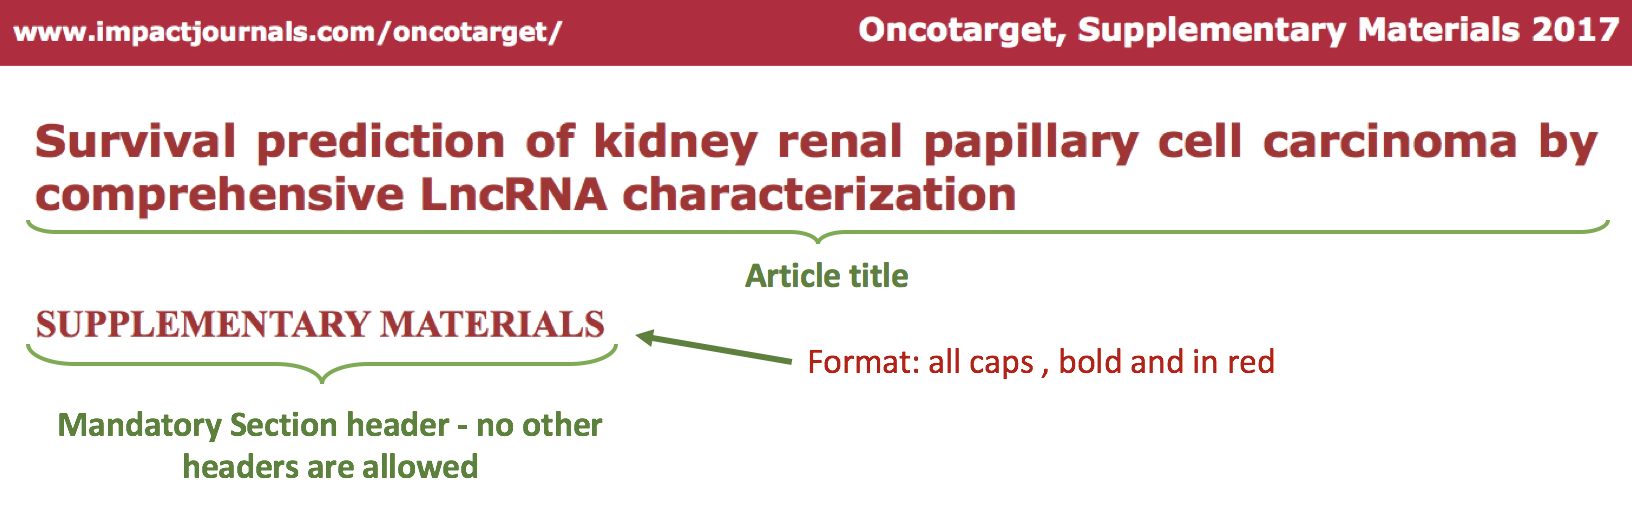
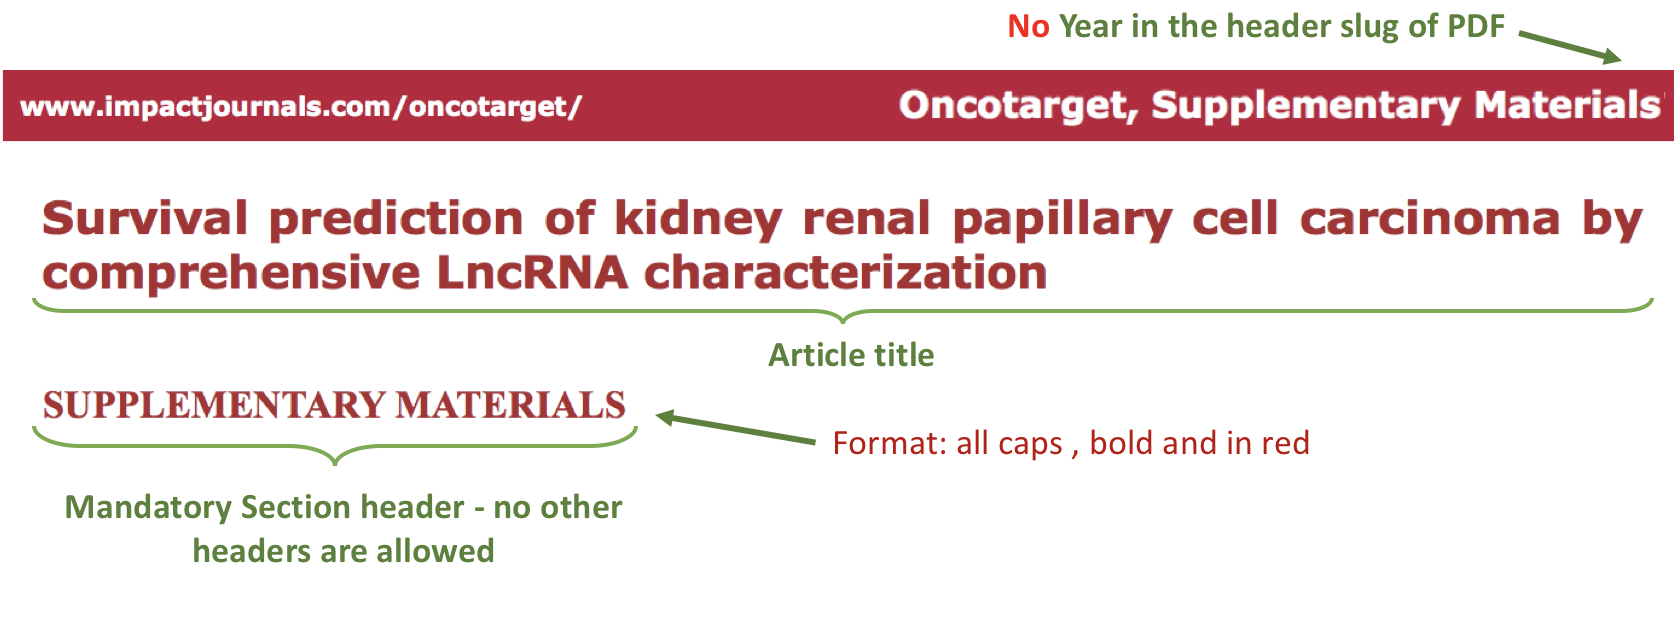
asd

diff --git a/editorials.rst b/editorials.rst
@@ -95,7 +95,7 @@ If you see that author name does not comply to these standards, please contact c
 
 	- Check that "Oncotarget." is followed by Year (4 digits, e.g. "2017"). Year should be presented in full (4 digits) and should be followed by semicolon (;). There can be a space after semicolon (but this is not mandatory).
 
-	- Check that year is followed by Volume. Volume should be one or more digits and should be followed by colon (:). There can be a space after colon (but this is not mandatory).
+	- Check that year is followed by Volume. Volume should be one or more digits and should be followed by colon (:). There can be a space after semicolon (not mandatory, but consistency should be maintained).
 
 	- Check that Volume is followed by Page numbers. Page numbers can be in either in short (12063-74) of full (12063-12074) format and should be followed by period (.). There should be a space after period.
 
@@ -113,7 +113,7 @@ If you see that author name does not comply to these standards, please contact c
 
 3.2.2. Ahead of print articles:
 	
-	- Check that "Oncotarget." is followed by Year (4 digits, e.g. "2017"). Year should be presented in full (4 digits) and should be followed by semicolon (;). There can be a space after semicolon (but this is not mandatory).
+	- Check that "Oncotarget." is followed by Year (4 digits, e.g. "2017"). Year should be presented in full (4 digits) and should be followed by semicolon (;). There can be a space after semicolon (not mandatory, but consistency should be maintained).
 
 	- Check that Year is followed by Month. Month should be written in abbreviated form in accordance with :ref:`journal style<news_month_abbreviation>`.
 
@@ -354,7 +354,7 @@ Citation data is a part of a reference, which contains Journal Title, year, volu
 
 	+ Journal title should be followed by period (.). There should be a space after period.
 
-	+ Year should be presented in full (4 digits) and should be followed by semicolon (;). There can be a space after semicolon (but this is not mandatory).
+	+ Year should be presented in full (4 digits) and should be followed by semicolon (;). There can be a space after semicolon (not mandatory, but consistency should be maintained).
 
 	+ Volume should be one or more digits and should be followed by colon (:). There can be a space after colon (but this is not mandatory).
 

diff --git a/references.rst b/references.rst
@@ -133,7 +133,7 @@ Citation data is a part of a reference, which contains Journal Title, year, volu
 
 	+ Journal title should be followed by period (.). There should be a space after period.
 
-	+ Year should be presented in full (4 digits) and should be followed by semicolon (;). There can be a space after semicolon (but this is not mandatory).
+	+ Year should be presented in full (4 digits) and should be followed by semicolon (;). There can be a space after semicolon (not mandatory, but consistency should be maintained).
 
 	+ Volume should be one or more digits and should be followed by colon (:). There can be a space after colon (but this is not mandatory).
 
@@ -226,7 +226,7 @@ Citation data is a part of a reference, which contains Journal Title, year, volu
 		:alt: Journal title
 		:scale: 60%
 
-	- Year should be presented in full (4 digits) and should be followed by semicolon (;). There can be a space after semicolon (but this is not mandatory).
+	- Year should be presented in full (4 digits) and should be followed by semicolon (;). There can be a space after semicolon (not mandatory, but consistency should be maintained).
 
 	.. image:: /_static/html_cdo_year.png
 		:alt: Year

diff --git a/supplementary.rst b/supplementary.rst
@@ -7,9 +7,11 @@
 
 1.1. Check that Supplementary files contain article title.
 
-1.2. Check that there is a mandatory section header: ":red:`SUPPLEMENTARY MATERIALS`". No other options are allowed.
+1.2. Check that there is no Year in the the header slug of the PDF.
 
-1.3. Check that ":red:`SUPPLEMENTARY MATERIALS`" header is for formatted in all caps, bold and in red.
+1.3. Check that there is a mandatory section header: ":red:`SUPPLEMENTARY MATERIALS`". No other options are allowed.
+
+1.4. Check that ":red:`SUPPLEMENTARY MATERIALS`" header is for formatted in all caps, bold and in red.
 
 .. image:: /_static/suppl_title_header.png
    :alt: Title and header
